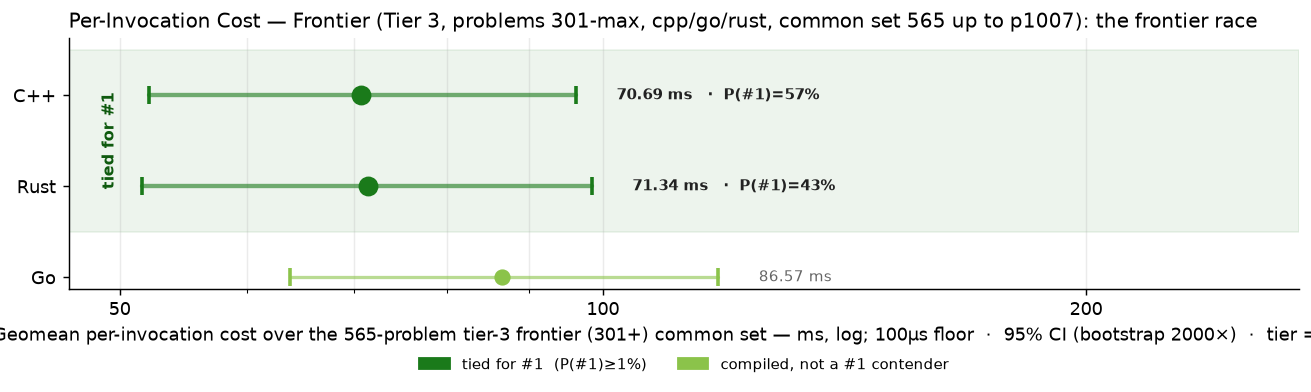
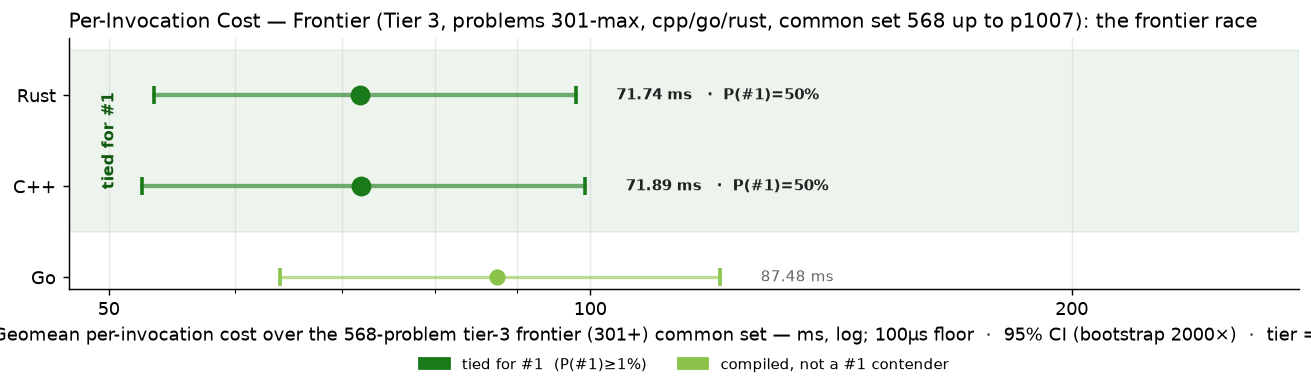
bench: p486 p570 p867 (cpp/go/rust)

diff --git a/RESULTS.md b/RESULTS.md
@@ -1,6 +1,6 @@
 # Project Euler — Cross-Language Benchmarks
 
-> **Scope: 4521 in-scope cells across 1007 problems × tiered languages — 4107 measured (90.8% coverage).**
+> **Scope: 4521 in-scope cells across 1007 problems × tiered languages — 4116 measured (91.0% coverage).**
 > The cross-language ranking below is computed over the **200-problem common set** (problems in 1-200 where every language has a passing measurement) — the apples-to-apples Foundation comparison surface.  Per-tier rankings and coverage detail appear further below.
 > Growing carefully — each new problem and language is audited for state-leak
 > safety, verified for answer correctness, and added only when it cleanly fits the
@@ -70,15 +70,15 @@ Same scatter as the Foundation chart, restricted to the tier-2 active languages 
 
 The frontier verification trio — C++, Go, Rust — on problems above 300. 3-way cross-language agreement is the verification protocol (strictly stronger than 2-way; see JOURNEY.md "Tier Reframing" episode for the p254 lesson that motivated it). Python and Zig are explicitly out of this tier — python's wall cost makes it impractical at level 5+, and zig's role caps at Tier 2.
 
-### Per-Invocation Cost (Common Set, 565 of ≤707 problems in scope)
+### Per-Invocation Cost (Common Set, 568 of ≤707 problems in scope)
 
 ![Per-Invocation Cost — Tier 3](charts/per_iter_total_tier3.png)
 
-| Rank | Language | Geomean (565-problem common set) | Total (sum) | Lines of code | vs Fastest |
+| Rank | Language | Geomean (568-problem common set) | Total (sum) | Lines of code | vs Fastest |
 |------|----------|--------------------:|------------:|--------------:|-----------:|
-| 1 | **C++** | 70.69 ms | 1709.41 s | 78,192 | 1.00× |
-| 2 | **Rust** | 71.34 ms | 1641.88 s | 99,859 | 1.01× |
-| 3 | **Go** | 86.57 ms | 2028.26 s | 98,034 | 1.22× |
+| 1 | **Rust** | 71.74 ms | 1643.79 s | 101,130 | 1.00× |
+| 2 | **C++** | 71.89 ms | 1727.73 s | 79,446 | 1.00× |
+| 3 | **Go** | 87.48 ms | 2033.02 s | 99,210 | 1.22× |
 
 ### Speed vs Code Size
 

diff --git a/per_problem/per_problem_0501-0600.md b/per_problem/per_problem_0501-0600.md
@@ -77,7 +77,7 @@ in tier-1 display order (native → managed → interpreted).
 | **p0567** | 932.94 ms | 150.20 ms | 467.64 ms |
 | **p0568** | <1 µs~ | <1 µs | 463.98 ms |
 | **p0569** | — | — | 3.52 s |
-| **p0570** | — | — | — |
+| **p0570** | 377.49 ms | 1.76 s | 1.98 s |
 | **p0571** | 3.30 s | 3.42 s | 11.09 s |
 | **p0572** | 268.53 ms | 13.09 s | 48.68 ms |
 | **p0573** | — | — | — |

diff --git a/per_problem/per_problem_0801-0900.md b/per_problem/per_problem_0801-0900.md
@@ -74,7 +74,7 @@ in tier-1 display order (native → managed → interpreted).
 | **p0864** | — | — | — |
 | **p0865** | 19.45 ms | 57.53 ms | 61.91 ms |
 | **p0866** | 5.1 µs | 670.1 µs | 35.2 µs |
-| **p0867** | — | — | — |
+| **p0867** | 17.21 s | 45.43 ms | 2.74 s |
 | **p0868** | 1.7 µs | 16.31 ms | 5.8 µs~ |
 | **p0869** | — | 381.19 ms | — |
 | **p0870** | — | — | — |

diff --git a/per_problem/per_problem_0401-0500.md b/per_problem/per_problem_0401-0500.md
@@ -93,7 +93,7 @@ in tier-1 display order (native → managed → interpreted).
 | **p0483** | — | — | — |
 | **p0484** | 393.81 ms | 443.75 ms | 528.16 ms |
 | **p0485** | 3.13 s | 3.15 s | 3.36 s |
-| **p0486** | — | — | — |
+| **p0486** | 734.12 ms | 103.40 ms | 48.43 ms |
 | **p0487** | 232.38 ms | 69.78 ms | 68.79 ms |
 | **p0488** | — | — | — |
 | **p0489** | — | — | — |
